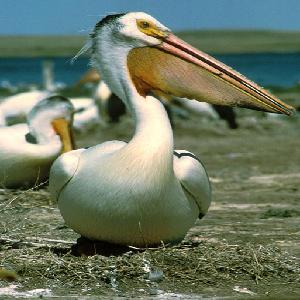
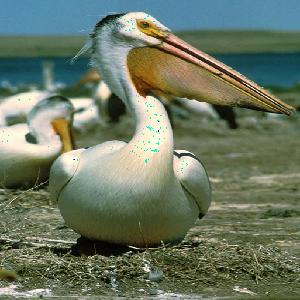
Segundo commit

diff --git a/ex1.py b/ex1.py
@@ -6,25 +6,23 @@ from keras.applications import inception_v3
 model = inception_v3.InceptionV3()
 
 # Cargamos la imagen a un array
-img = image.load_img("pelican.jpg", target_size=(300, 300))
-img2 = image.load_img("pelican2.jpg", target_size=(300, 300))
-img3 = image.load_img("pelican3.jpg", target_size=(300, 300))
+img = [image.load_img("pelican.jpg", target_size=(300, 300)),image.load_img("pelican2.jpg", target_size=(300, 300)),image.load_img("pelican3.jpg", target_size=(300, 300)),image.load_img("result.jpg", target_size=(300, 300))]
 
-input_image = image.img_to_array(img)
+for f in img:
+    input_image = image.img_to_array(f)
+    # Escalamos la imagen
+    input_image /= 255.
+    input_image -= 0.5
+    input_image *= 2.
 
-# Escalamos la imagen
-input_image /= 255.
-input_image -= 0.5
-input_image *= 2.
+    # Ponemos la imagen como keras espera
+    input_image = np.expand_dims(input_image, axis=0)
 
-# Ponemos la imagen como keras espera
-input_image = np.expand_dims(input_image, axis=0)
+    # Ejecutamos la predicción
+    predictions = model.predict(input_image)
 
-# Ejecutamos la predicción
-predictions = model.predict(input_image)
-
-# Imprimimos en pantalla la predicción
-predicted_classes = inception_v3.decode_predictions(predictions, top=5)
-print(predicted_classes)
-imagenet_id, name, confidence = predicted_classes[0][0]
-print("!Es {} con {:.4}% de probabilidad!".format(name, confidence * 100))
+    # Imprimimos en pantalla la predicción
+    predicted_classes = inception_v3.decode_predictions(predictions, top=5)
+    print(predicted_classes)
+    imagenet_id, name, confidence = predicted_classes[0][0]
+    print("!Es {} con {:.4}% de probabilidad!".format(name, confidence * 100))

diff --git a/ex2.py b/ex2.py
@@ -21,27 +21,24 @@ original_image /= 255.
 original_image -= 0.5
 original_image *= 2.
 
-descalado = Image.fromarray(original_image.astype(np.uint8))
-descalado.show()
-#print(original_image)
-
 original_image = np.expand_dims(original_image, axis=0)
 
-# Precalcular cambios
+# cambios máximo por arriba y por abajo
 max_change_above = original_image + 0.01
 max_change_below = original_image - 0.01
 
 # Create a copy of the input image to hack on
 final = np.copy(original_image)
 
-learning_rate = 1.0
+learning_rate = 0.1
 cost_function = model_output_layer[0, object_type_to_fake]
 gradient_function = K.gradients(cost_function, model_input_layer)[0]
 grab_cost_and_gradients_from_model = K.function([model_input_layer, K.learning_phase()], [cost_function, gradient_function])
-cost = 0.0
+cost = 0.00
 
 # Bucle para calcular la aimgen
-while cost < 0.90:
+while cost < 0.80:
+    #print(grab_cost_and_gradients_from_model([final,0]))
     cost, gradients = grab_cost_and_gradients_from_model([final, 0])
     final += gradients * learning_rate
     final = np.clip(final, max_change_below, max_change_above)
@@ -49,9 +46,6 @@ while cost < 0.90:
 
     #print(grab_cost_and_gradients_from_model)
     print("Predicción del modelo (chihuahua): {:.8}%".format(cost * 100))
-
-descalado2 = Image.fromarray(final.astype(np.uint8))
-descalado2.show()
 
 # deescalado
 img = final[0]
